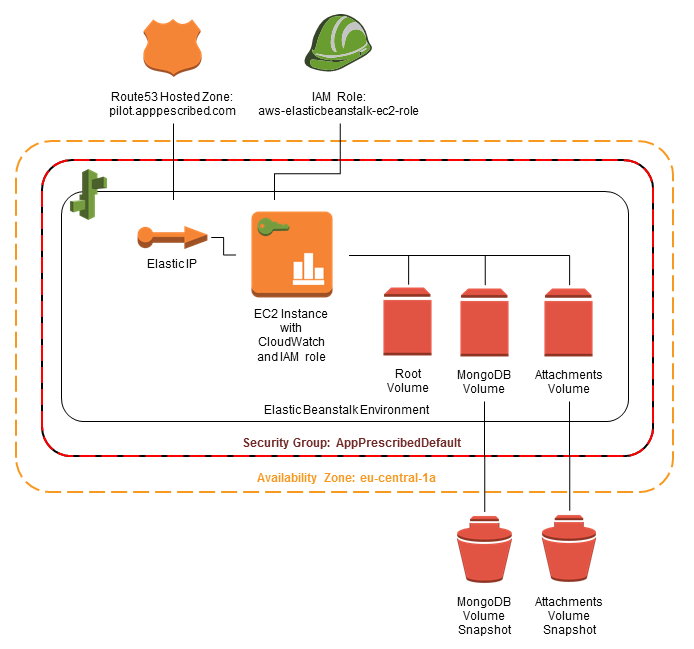
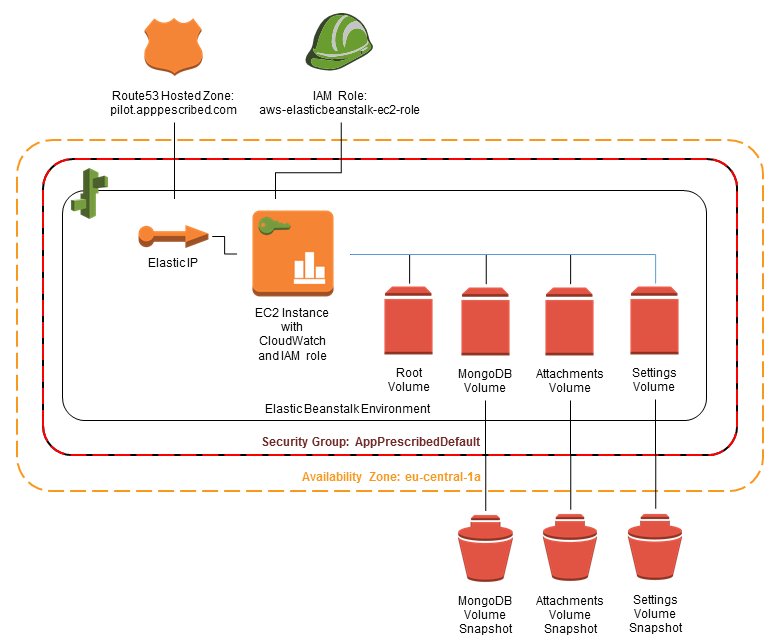
Settings Volumes
Added code to move the application's "settings" directory onto an EBS
volume. This is required as this directory contains data which must
persist across application updates.

diff --git a/docs/readme.rst b/docs/readme.rst
@@ -43,7 +43,7 @@ The purpose of the code in this repository is to enable Roche to deploy a pre-re
 
 2.0 Solution Overview
 =====================
-The solution deploys the application into an Elastic Beanstalk Node.js environment. The application code runs on an EC2 instance managed by Elastic Beanstalk, with data for MongoDB and the application's "attachments" directory stored on separate EBS volumes automatically generated from pre-configured snapshots.
+The solution deploys the application into an Elastic Beanstalk Node.js environment. The application code runs on an EC2 instance managed by Elastic Beanstalk, with data for MongoDB and the application's "attachments" and "settings" directories stored on separate EBS volumes automatically generated from pre-configured snapshots.
 
 The EC2 instance is secured using a pre-configured security group and an IAM role. The security group is set up to allow direct access to the applications own ports when needed, and the IAM role allows the EC2 instance to publish new metrics to CloudWatch. This is used to enable monitoring of memory utilisation within the EC2 instance via the CloudWatch service.
 
@@ -72,7 +72,7 @@ The following diagram shows an overview of the major components of the solution:
   - **001-mongo-repo.config** installs an additional yum repository containing a version of MongoDB complied to work on Amazon Linux.
   - **002-packages.config** installs all additional packages needed for the application to run.
   - **003-files.config** writes configuration and script files required before the application is installed.
-  - **004-mount-ebs.config** creates and attaches EBS volumes for MongoDB and user-uploaded files and updates /etc/fstab.
+  - **004-mount-ebs.config** creates and attaches EBS volumes for MongoDB, attachments, and settings files and updates /etc/fstab.
   - **005-services.config** configures MongoDB to run and both MongoDB and Nginx to restart if their configuration is updated and configures the firewall.
   - **006-monitoring.config** installs and configures the Amazon CloudWatch Monitoring Scripts for Linux.
 
@@ -85,7 +85,7 @@ The following diagram shows an overview of the major components of the solution:
 
 - **scripts** contains script files for deploying the application.
 
-  - **15_umount_attachments.sh** is intended to be run inside an Elastic Beanstalk environment and unmounts the attachments EBS volume during the deployment of new version of the application.
+  - **15_umount_volumes.sh** is intended to be run inside an Elastic Beanstalk environment and unmounts the attachments and settings EBS volumes during the deployment of new version of the application.
   - **99_app_setup.sh** is intended to be run inside an Elastic Beanstalk environment and performs the final configuration steps prior to the application being started.
   - **ami-setup.sh** performs a scripted installation of the application intended to be run manually in a non-Elastic Beanstalk EC2 instance.
 
@@ -121,7 +121,7 @@ All other options can be left as default.
   AWS documentation for terminating a Elastic Beanstalk environment can be found here: http://docs.aws.amazon.com/elasticbeanstalk/latest/dg/using-features.terminating.html
 
 Both rebuilding and terminating an environment are destructive operations, and as such any data stored by the application running in that environment **will be lost** when performing these operations.
-Application data which may need to be retained after these operations, specifically the MongoDB database and the "attachments" directory, are set up to be stored on EBS volumes to enable this data to be retained if required.
+Application data which may need to be retained after these operations, specifically the MongoDB database and the "attachments" & "settings" directories, are set up to be stored on EBS volumes to enable this data to be retained if required.
 If the data must be retained this can be accomplished by taking snapshots of the EBS volumes in AWS. The EBS volumes associated with the environment can be identified by examining the "Attachement Information" column in the EBS console.
 A full description of the process for snapshotting an EBS volume can be found in the AWS documentation here: http://docs.aws.amazon.com/AWSEC2/latest/UserGuide/ebs-creating-snapshot.html
 

diff --git a/.ebextensions/readme.md b/.ebextensions/readme.md
@@ -7,6 +7,6 @@ They are processed in alphabetical order.
 - **001-mongo-repo.config** installs an additional yum repository containing a version of MongoDB complied to work on Amazon Linux.
 - **002-packages.config** installs all additional packages needed for the application to run.
 - **003-files.config** writes configuration and script files required before the application is installed.
-- **004-mount-ebs.config** creates and attaches EBS volumes for MongoDB and user-uploaded files and updates /etc/fstab.
+- **004-mount-ebs.config** creates and attaches EBS volumes for MongoDB, attachments, and settings files and updates /etc/fstab.
 - **005-services.config** configures MongoDB to run and both MongoDB and Nginx to restart if their configuration is updated and configures the firewall.
 - **006-monitoring.config** installs and configures the Amazon CloudWatch Monitoring Scripts for Linux.

diff --git a/scripts/readme.md b/scripts/readme.md
@@ -2,6 +2,6 @@
 These scripts are used to install and configure AppPrescribed.
 
 ## Files
-- **15_umount_attachments.sh** is intended to be run inside an Elastic Beanstalk environment and unmounts the attachments EBS volume during the deployment of new version of the application.
+- **15_umount_volumes.sh** is intended to be run inside an Elastic Beanstalk environment and unmounts the attachments and settings EBS volumes during the deployment of new version of the application.
 - **99_app_setup.sh** is intended to be run inside an Elastic Beanstalk environment and performs the final configuration steps prior to the application being started.
 - **ami-setup.sh** performs a scripted installation of the application intended to be run manually in a non-Elastic Beanstalk EC2 instance.
